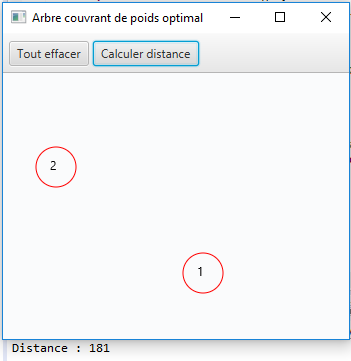
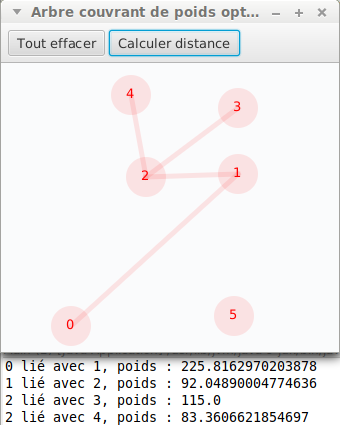
Ajout-Suppression sommets et arêtes, calcul poids des arêtes

diff --git a/src/arbrecouvrant/Graphe.java b/src/arbrecouvrant/Graphe.java
@@ -2,32 +2,69 @@ package arbrecouvrant;
 
 import java.util.ArrayList;
 
-import javafx.event.EventHandler;
 import javafx.scene.Node;
-import javafx.scene.input.MouseEvent;
+import javafx.scene.input.MouseButton;
 import javafx.scene.layout.Pane;
-import javafx.scene.paint.Color;
-import javafx.scene.text.Text;
 
 /*
  * Classe qui contiendra l'ensemble des points et arêtes
  */
 public class Graphe extends Pane {
 	   private ArrayList<Sommet> listSommet = new ArrayList<>();
-	   private ArrayList<Text> listText = new ArrayList<>();
-	   public static boolean isDragging;
-	   MouseGestures mg = new MouseGestures();
+	   private ArrayList<Arete>  listArete  = new ArrayList<>();
 	   
 		/**
-		 * Ajoute un sommet à chaque clic de la souris
+		 * Un graphe contiens l'ensemble des sommets et aretes 
 		 */
 	   public Graphe() {
 		   // évènement du Pane qui crée le sommet
 		   setOnMouseClicked(evt -> {
-			   if(!isDragging) {
-				   tracerSommet(evt.getX(), evt.getY());
+			   // sélectionne le Sommet (élément parrent d'un Text ou d'un Circle)
+			   Node element = evt.getPickResult().getIntersectedNode().getParent();
+			   
+			   // ajoute un sommet à chaque clic gauche
+			   if (evt.getButton() == MouseButton.PRIMARY) {
+				   if(!(element instanceof Sommet)) {
+					   tracerSommet(evt.getX(), evt.getY());
+				   }
 			   }
-		   } );
+			   
+			   // supprime un sommet à chaque clic droit
+			   if (evt.getButton() == MouseButton.SECONDARY) {
+			       if (element instanceof Sommet) {
+			           listSommet.remove(element);
+			           rafraichir();
+			       }
+			       if (evt.getPickResult().getIntersectedNode() instanceof Arete) {
+			           listArete.remove(evt.getPickResult().getIntersectedNode());
+			           rafraichir();
+			       }
+			   }
+		   });
+		   
+
+		   // Ajout une arête à chaque clic sur l'un des sommets
+		   ArrayList<Sommet> couple = new ArrayList<>();
+		   setOnMousePressed(evt -> {
+			   Node element = evt.getPickResult().getIntersectedNode().getParent();
+			   if(element instanceof Sommet) {
+				   couple.add((Sommet) element);
+			   }
+		   });
+		   
+		   setOnMouseReleased(evt -> {
+			   Node element = evt.getPickResult().getIntersectedNode().getParent();
+			   if(element instanceof Sommet) {
+				   couple.add((Sommet) element);
+				   if(couple.size() == 2) {
+					   if(couple.get(0).getNom() != couple.get(1).getNom()) {
+						   // on cherche deux sommets différents avant de tracer
+						   tracerArete(couple.get(0), couple.get(1));
+					   }
+				   }
+				   couple.clear();
+			   }
+		   });
 	   }
 
 	   /*
@@ -36,6 +73,24 @@ public class Graphe extends Pane {
 	   public void toutEffacer() {
 		  getChildren().clear(); 
 	      listSommet.clear();
+	      listArete.clear();
+	   }
+	   
+	   /*
+	    * Efface le Pane puis ré-affiche les arêtes ainsi que
+	    * l'ensemble des sommets en mettant à jour leurs noms
+	    */
+	   public void rafraichir() {
+		   getChildren().clear();
+		  
+		   for(int i=0; i<listSommet.size(); i++) {
+			   listSommet.get(i).setNom(""+i);
+			   getChildren().add(listSommet.get(i));
+		   }
+		   
+		   for(Arete arete : listArete) {
+			   getChildren().add(arete);
+		   }
 	   }
 	   
 	   /*
@@ -49,63 +104,18 @@ public class Graphe extends Pane {
 	    * Dessine un cercle dans lequel on a son numéro
 	    */
 	   public void tracerSommet(double x, double y) {
-		      Sommet sommet = new Sommet(x, y);
+		      Sommet sommet = new Sommet(x, y, ""+listSommet.size());	      
 		      listSommet.add(sommet);
-		      getChildren().addAll(sommet);	      
-		      
-		      Text text = new Text(x-5, y+3,""+listSommet.size());
-		      text.setFill(Color.RED);
-		      listText.add(text);
-		      getChildren().addAll(text);
-		      
-		      // TODO: lier text et sommet dans un overlay
-		      
-		      mg.makeDraggable(sommet);
+		      getChildren().add(sommet);
 	   }
 	   
-	    public static class MouseGestures {
-
-	        double orgSceneX, orgSceneY; // position d'origine
-	        double orgTranslateX, orgTranslateY; // position après drag'n'drop
-
-	        public void makeDraggable(Node node) {
-	            node.setOnMousePressed(sommetOnMousePressed);
-	            node.setOnMouseDragged(sommetOnMouseDragged);
-	        }
-
-	        EventHandler<MouseEvent> sommetOnMousePressed = new EventHandler<MouseEvent>() {
-	            @Override
-	            public void handle(MouseEvent evt) {
-	                orgSceneX = evt.getSceneX();
-	                orgSceneY = evt.getSceneY();
-
-	                Sommet s = ((Sommet) (evt.getSource()));
-	                orgTranslateX = s.getCenterX();
-	                orgTranslateY = s.getCenterY();
-	            }
-	        };
-
-	        EventHandler<MouseEvent> sommetOnMouseDragged = new EventHandler<MouseEvent>() {
-	            @Override
-	            public void handle(MouseEvent evt) {
-	                double offsetX = evt.getSceneX() - orgSceneX;
-	                double offsetY = evt.getSceneY() - orgSceneY;
-
-	                double newTranslateX = orgTranslateX + offsetX;
-	                double newTranslateY = orgTranslateY + offsetY;
-
-	                Sommet s = ((Sommet) (evt.getSource()));
-	                s.setCenterX(newTranslateX);
-	                s.setCenterY(newTranslateY);
-	                
-	                if(evt.getSource() instanceof Sommet) {
-	                	Graphe.isDragging = true;
-	                }
-	                else {
-	                	Graphe.isDragging = false;
-	                }
-	            }
-	        };
-
-	    }
+	   /*
+	    * Dessine une arête entre deux sommets
+	    */
+	   public void tracerArete(Sommet a, Sommet b) {
+		   Arete arete = new Arete(a, b);
+		   listArete.add(arete);
+		   getChildren().add(arete);
+		   System.out.println(a.getNom() +" lié avec "+ b.getNom() + ", poids : "+arete.getPoids());
+	   }
 }

diff --git a/src/arbrecouvrant/Sommet.java b/src/arbrecouvrant/Sommet.java
@@ -1,7 +1,9 @@
 package arbrecouvrant;
 
+import javafx.scene.Group;
 import javafx.scene.paint.Color;
 import javafx.scene.shape.Circle;
+import javafx.scene.text.Text;
 
 /*
  * On réutilise la classe Circle :
@@ -9,15 +11,49 @@ import javafx.scene.shape.Circle;
  * setCenter et getCenter.
  * - Un cercle se déplace avec la méthode relocate.
  */
-public class Sommet extends Circle {
-
-	public Sommet(double x, double y) {
-		super(x, y, 20, new Color(1, 0, 0, 0.1));
+public class Sommet extends Group {
+	private double x, y;
+	private Circle cercle;
+	private Text texte;
+	
+	public Sommet(double x, double y, String nom) {
+		cercle = new Circle(x, y, 20, new Color(1, 0, 0, 0.1));
+		texte = new Text(x-5, y+3, nom);
+		texte.setFill(Color.RED);
+		getChildren().addAll(cercle, texte);
+		this.x = x;
+		this.y = y;
 	}
 
 	public double getDistance(Sommet autre) {
-       double dX = Math.abs(this.getCenterX() - autre.getCenterX());
-       double dY = Math.abs(this.getCenterY() - autre.getCenterY());
+       double dX = Math.abs(x - autre.getX());
+       double dY = Math.abs(y - autre.getY());
        return Math.sqrt(Math.pow(dX, 2) + Math.pow(dY, 2));
+	}
+	
+	public void setNom(String valeur) {
+		texte.setText(valeur);
+	}
+	
+	public void setX(double valeur) {
+		this.x = valeur;
+		setTranslateX(valeur);
+	}
+	
+	public void setY (double valeur) {
+		this.y = valeur;
+		setTranslateY(valeur);
+	}
+	
+	public double getX() {
+		return x;
+	}
+	
+	public double getY() {
+		return y;
+	}
+	
+	public String getNom() {
+		return texte.getText();
 	}
 }

diff --git a/src/arbrecouvrant/Arete.java b/src/arbrecouvrant/Arete.java
@@ -1,0 +1,37 @@
+/**
+ * 
+ */
+package arbrecouvrant;
+
+import javafx.scene.paint.Color;
+import javafx.scene.shape.Line;
+
+/**
+ * On utilise ici la classe Line
+ */
+public class Arete extends Line {
+	private Sommet precedent;
+	private Sommet suivant;
+	private double poids;
+	
+	public Arete(Sommet a, Sommet b) {
+		super(a.getX(), a.getY(), b.getX(), b.getY());
+		setStroke(new Color(1, 0, 0, 0.1));
+		setStrokeWidth(5);
+		
+		precedent = a;
+		suivant = b;
+		
+		calculerPoids();
+	}
+	
+	private void calculerPoids() {
+	       double dX = Math.abs(precedent.getX() - suivant.getX());
+	       double dY = Math.abs(precedent.getY() - suivant.getY());
+	       poids = Math.sqrt(Math.pow(dX, 2) + Math.pow(dY, 2));
+	}
+	
+	public double getPoids() {
+		return poids;
+	}
+}
